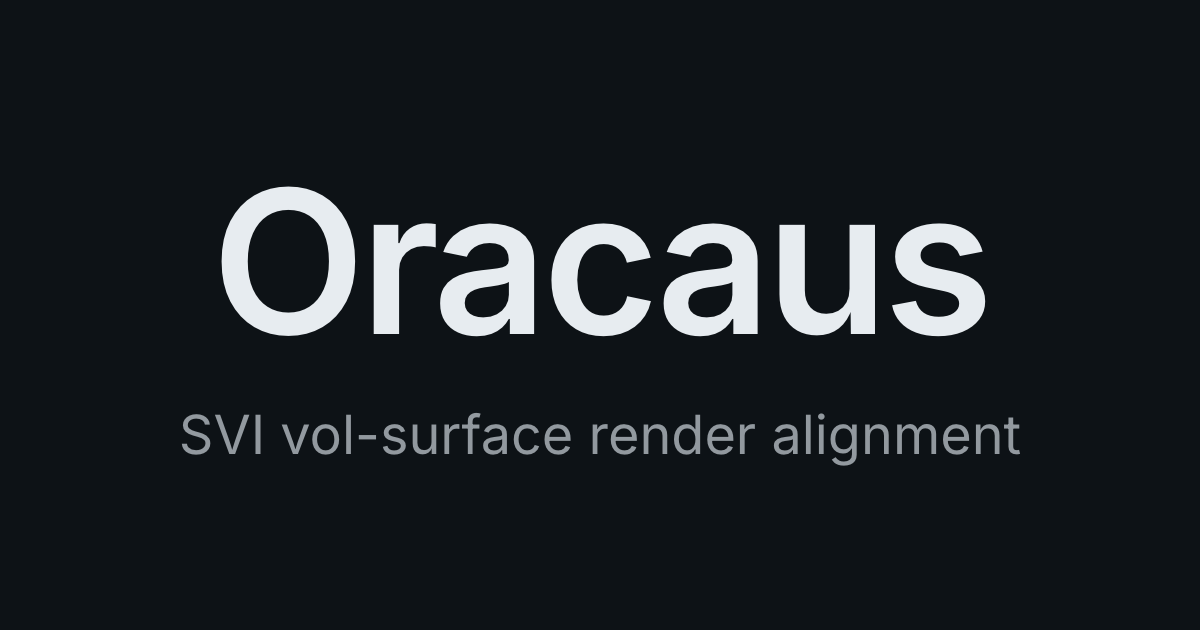
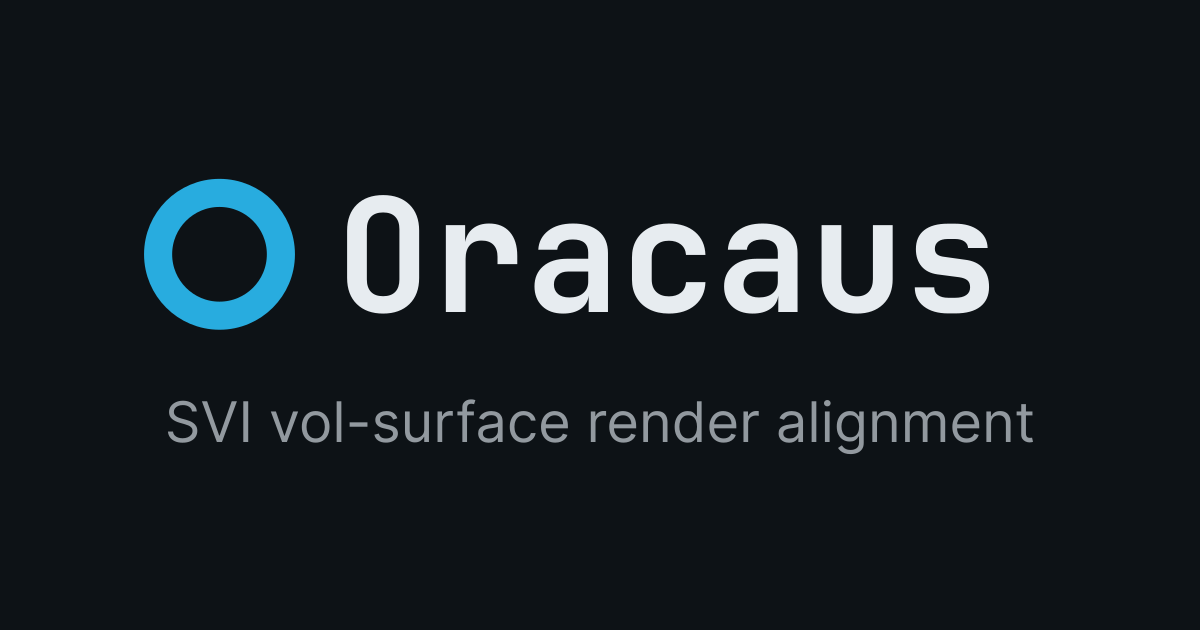
feat(demo,docs): header brand mark, README reframe, comment corrections
- header: ring mark (accent-info) + mono 'Oracaus' wordmark linked to
  https://oracaus.dev (tracked as a link-clicked event); favicon.svg +
  <link rel=icon> in index.html; self-center on the ring so the flex
  lockup aligns to the text baseline. Matches the apex SiteHeader lockup.
- README: reframe the load-bearing section around the four conditions
  under which coherence is a correctness property (canonical upstream
  state, personalised interactive compute, a human acting on the result,
  compute too heavy for coarse gating) + a 'why correctness here' column.
- comments: correct the transform-box reflow claim in Smile.tsx and
  CLAUDE.md. Post 1's A/B showed transform-box stays null even under
  churn; the dominant cost was setAttribute + style recalc.

Changed region(s): [[0.0925, 0.2714, 0.8325, 0.5429], [0.1233, 0.6333, 0.8633, 0.754]]

diff --git a/demo/src/components/Smile.tsx b/demo/src/components/Smile.tsx
@@ -14,8 +14,9 @@
 // (low-opacity rect) marks where the fit is reliable; outside this range
 // SVI extrapolates and can produce arbitrage-violating IVs.
 //
-// The SVG `<g transform>` wrapper keeps tick / curve updates compositor-
-// cheap (no layout invalidation on data change). Tick math via `d3-scale`
+// The inner `<g>` carries the compositor-driven y-axis rescale (Web Animations
+// API); the per-tick data updates themselves still cost style recalc and a
+// little layout, inherent to mutating the SVG nodes. Tick math via `d3-scale`
 // (`linear().nice().ticks(N)`).
 
 import { scaleLinear } from "d3-scale";
@@ -187,10 +188,12 @@ function SmileImpl(props: SmileProps) {
   // animation on the inner chart group with two keyframes: an initial
   // transform that visually maps new positions back to where the same
   // data lived under the OLD range, and identity. The interpolation
-  // runs on the GPU compositor — zero React re-renders, zero
-  // main-thread style/layout/paint per animation frame, and crucially
-  // **no force reflow** (which the prior CSS-transition implementation
-  // required to commit the initial transform before transitioning).
+  // runs on the GPU compositor: zero React re-renders and zero
+  // main-thread style/layout/paint per animation frame. It also skips
+  // the geometry read-back a CSS transition needs to commit the start
+  // state (that read is a forced reflow, but a negligible one here:
+  // transitioning `transform` adds no layout; see the transform-box
+  // note below).
   // The animation appears in DevTools' Animations panel, making the
   // compositor-only behaviour verifiable at a glance.
   //
@@ -199,18 +202,22 @@ function SmileImpl(props: SmileProps) {
   //   ty = MARGIN.top × (1 − sy) + innerH × (oldMax − newMax) / (oldMax − oldMin)
   //
   // Applied around `transform-origin: 0 0` with `transform-box: view-box`
-  // (the SVG default for non-root `<g>`). The origin is at the SVG
-  // view-box's top-left, NOT the inner group's bounding box — view-box
-  // is fixed across content changes, fill-box would force the browser
-  // to recompute the element's bounding box whenever its content
-  // changes (200 circles × 2 panels per 5 Hz tick) which triggered
-  // unattributed document-wide reflows in earlier traces. The
+  // (the SVG default for non-root `<g>`). view-box is load-bearing for
+  // CORRECTNESS, not performance: it pins origin 0 0 to the SVG view-box's
+  // fixed top-left, which is what the ty/sy math above is derived against.
+  // Under fill-box, origin 0 0 would track the inner group's own bounding
+  // box corner, which moves with the content, and the rescale would render
+  // wrong. (We first assumed fill-box would also re-resolve that bounding
+  // box per redraw and cost layout; a controlled A/B, fill-box vs view-box
+  // including a deliberately churning bbox, showed no measurable layout or
+  // style-recalc difference. So the choice is correctness, not cost.) The
   // `MARGIN.top × (1 − sy)` term in ty compensates for the fact that
   // the chart content is offset by MARGIN.top in view-box coords via
   // the parent `<g transform="translate(...)">`.
   //
-  // Replaces the previous `useAnimatedRange` rAF approach which cost
-  // ~50 ms of main-thread work over each 300 ms transition. Reduced-
+  // Replaces the previous `useAnimatedRange` rAF approach, which
+  // re-rendered the chart on every frame of the transition (measured at
+  // roughly 2.7x the compositor handoff's main-thread cost). Reduced-
   // motion users get an instant snap (duration 0) — animation is a
   // visual aid, not load-bearing for comprehension.
   //
@@ -330,16 +337,14 @@ function SmileImpl(props: SmileProps) {
             clipPath={`url(#${clipId})`}
             style={{
               // Explicit `view-box` (the SVG default for non-root `<g>`)
-              // pivots `transform-origin: 0 0` at the SVG view-box's
-              // own top-left, NOT at the inner group's bounding box.
-              // Using `fill-box` here required the browser to recompute
-              // this element's bounding box every time its inner content
-              // changed (200 circles + path `d` per 5 Hz tick), which
-              // triggered the document-wide unattributed forced reflow
-              // visible in the Performance Insights trace. View-box has
-              // a fixed origin per render, so transform reference is
-              // stable across content updates. The MARGIN.top offset
-              // is baked into the WAAPI transform's `ty` keyframe in
+              // pivots `transform-origin: 0 0` at the SVG view-box's own
+              // top-left, NOT at the inner group's bounding box. This is a
+              // correctness requirement for the ty/sy math, not a perf
+              // optimisation: under `fill-box` the origin would track the
+              // group's moving bbox corner and the rescale would render
+              // wrong. (We A/B'd fill-box vs view-box, including a churning
+              // bbox; no measurable layout or style-recalc difference.) The
+              // MARGIN.top offset is baked into the WAAPI `ty` keyframe in
               // the useLayoutEffect above.
               transformBox: "view-box",
               transformOrigin: "0 0",

diff --git a/demo/src/App.tsx b/demo/src/App.tsx
@@ -628,9 +628,29 @@ export function App() {
           tools — they live here rather than in the toolbar below). */}
       <header className="flex h-9 shrink-0 items-center justify-between border-b border-border px-5">
         <div className="flex items-baseline gap-2.5">
-          <span className="font-sans text-base font-semibold tracking-tight">
+          <a
+            href="https://oracaus.dev"
+            target="_blank"
+            rel="noreferrer"
+            onClick={() => trackEvent("link-clicked", { target: "apex" })}
+            className="focus-ring inline-flex items-baseline gap-2 rounded-sm font-mono text-base font-semibold tracking-tight"
+          >
+            <svg
+              viewBox="0 0 18 18"
+              aria-hidden="true"
+              className="h-4 w-4 shrink-0 self-center"
+            >
+              <circle
+                cx="9"
+                cy="9"
+                r="7"
+                fill="none"
+                strokeWidth="3.2"
+                className="stroke-accent-info"
+              />
+            </svg>
             Oracaus
-          </span>
+          </a>
           <span className="whitespace-nowrap font-sans text-[11px] text-fg-muted">
             SVI vol-surface render alignment in React
           </span>

diff --git a/demo/index.html b/demo/index.html
@@ -28,6 +28,7 @@
     content="A React hook for async derivation against streaming inputs. Live demo: SVI vol-surface fitting under a streaming option chain, naive vs. oracaus side-by-side." />
   <meta name="twitter:image" content="https://demo.oracaus.dev/og-image.png" />
 
+  <link rel="icon" href="/favicon.svg" />
   <link rel="preconnect" href="https://fonts.googleapis.com" />
   <link rel="preconnect" href="https://fonts.gstatic.com" crossorigin />
   <link rel="stylesheet"

diff --git a/README.md b/README.md
@@ -89,20 +89,23 @@ Trading UIs are the most demanding instance of this shape; the same failure surf
 
 The library is **a no-op when compute time stays inside the input interval** — the worker is idle between events, the queue can't accumulate, and naive composition would render coherently anyway. That's correct behaviour, not a bug; the library doesn't add latency to fast computes.
 
-It becomes load-bearing when async compute exceeds the inter-snapshot interval. Common patterns where this happens:
+It becomes load-bearing where four conditions hold at once:
 
-| Pattern                                          | Realistic example                                               |
-| ------------------------------------------------ | --------------------------------------------------------------- |
-| Heavy compute per event                          | Multi-slice vol-surface fit + Greeks + no-arb checks ≈ 30–50 ms against an option chain ticking 50–200/sec |
-| Multi-leg aggregate analytics over a streamed ladder | Per-leg book-aware metrics (margin contribution, vol-bucket exposure, correlation impact) aggregated against a streamed price ladder; ≈ 20–40 ms per refresh; vertical tearing along the streamed/derived split |
-| Mixed streaming + intent feeding heavy compute   | Streaming chain at 50 Hz + slider drag on expiry-count or scenario parameter; both feed a 30–100 ms compute; the architectural shape the two-input-kind dispatch was designed for |
-| Scenario revaluation against ticked positions    | 100 scenarios × per-scenario pricing = 50 ms–1 s against a portfolio ticking at ~50 ms; aggregate staleness against the visible positions |
-| Interactive GPU-accelerated Monte Carlo          | 100k-path P&L surface on consumer GPU at 30–200 ms per dispatch; slider-driven perturbation grid against streaming market data; the two-input-kind dispatch maps onto this directly |
-| Streaming-input ML inference                     | Anomaly scoring on a streaming sensor feed; classification over a sliding feature window; small models, 20–200 ms forward pass |
-| Interactive client-side filtering + aggregation  | Ad-hoc re-compute over a 60-second filtered span buffer (APM-class tool); 40–80 ms per refresh on heavy filter changes |
-| Slow client                                      | Same code; 1 ms on developer M-series Mac → 50 ms on user budget Android; crosses the inter-snapshot interval threshold only on the user's device |
+1. **Canonical streaming state lives upstream** — a market-data feed, an option chain, a ticking position book the middle tier serves to every consumer.
+2. **The compute is personalised and interactive** — a per-user fit, scenario set, or structure that can't sit server-side at per-user scale without forcing the middle tier to compute N views per tick.
+3. **A human reads the result and acts on it** — quotes, hedges, adjusts skew, sizes a structure, sets a limit — fast enough and with enough at stake that a frame composing output against inputs that have already moved is a *costly error*, not a cosmetic flicker.
+4. **The compute is heavy enough that coarse gating can't save you** — throttling inputs to a slower cadence shrinks the collision window but doesn't close it once the compute itself exceeds the gating interval.
 
-The threshold isn't fixed at 16 ms — the React frame budget is single-digit ms in practice (browser + scheduler take their share of the 16 ms / 8 ms frame interval), and the library's domain is async compute past the **inter-snapshot interval** (≈ 20 ms at 50 Hz inputs; ≈ 10 ms at 100 Hz). The boundary is empirical and shifts with cadence, fan-out, and scale.
+Trading and risk surfaces are the wedge: the most demanding instance of this shape, and where the proof cases live. The pattern generalises to any real-time interface that meets all four conditions — but where it doesn't (compute the middle tier could do cheaply; a frame only ever glanced at, never acted on; coarse gating that's good enough), coherence is a convenience, not a correctness property, and you don't need this.
+
+| Pattern | Realistic example | Why coherence is correctness here |
+| --- | --- | --- |
+| Vol-surface fit + Greeks (market-maker surface) | Multi-slice raw-SVI fit + Greeks + no-arb ≈ 30–50 ms against an option chain ticking 50–200/sec | The trader adjusts skew, widens, or pulls off the displayed surface; one fitted to a chain that has already moved drives a mis-judged intervention — this is the demo |
+| Scenario revaluation against ticked positions | 100 custom scenarios × per-scenario pricing = 50 ms–1 s against a portfolio ticking at ~50 ms | The risk manager hedges and sets limits off the stress aggregate; the compute exceeds any gating interval, so coalescing *can't* close the window — only coherent commit can |
+| Interactive GPU Monte Carlo (what-if P&L surface) | 100k-path P&L surface on a consumer GPU at 30–200 ms/dispatch; slider-driven perturbation grid against streaming market data | A surface whose perturbation grid disagrees with the (spot, vol) the run used is a chimera P&L for a tuple that never existed at any instant |
+| Multi-leg aggregate over a streamed ladder | Per-leg book-aware metrics (margin, vol-bucket exposure, correlation) against a streamed price ladder; ≈ 20–40 ms | The structurer prices off the aggregate; vertical tearing along the streamed/derived split misstates the structure's margin at the moment of the decision |
+
+The threshold isn't fixed at 16 ms — the React frame budget is single-digit ms in practice (browser + scheduler take their share of the 16 ms / 8 ms frame interval), and the library's domain is async compute past the **inter-snapshot interval** (≈ 20 ms at 50 Hz inputs; ≈ 10 ms at 100 Hz). The boundary is empirical and device-relative: the same compute that's 1 ms on a developer's M-series Mac can be 50 ms on a user's budget Android, crossing the threshold only on the slower device. It shifts with cadence, fan-out, and scale.
 
 The [demo](https://demo.oracaus.dev) is the easiest way to feel this. Two selectors: per-tick compute (~15 ms → ~92 ms p99 across 12 → 80 expiries) and inter-snapshot interval (20 ms → 2 ms across 50 → 500 Hz). Naive tears when compute exceeds interval — steady at defaults (~58 ms vs 20 ms), dramatic at the upper corner (~92 ms vs 2 ms).
 

diff --git a/CLAUDE.md b/CLAUDE.md
@@ -319,7 +319,7 @@ Hand-rolled SVG (`demo/src/components/Smile.tsx`). `d3-scale` (~5 KB gz) for tic
 
 1. **Anchor baseline** (`App.tsx:computeSmileYRange(T, xRange)`). Derives IV range from feed's anchor parameters at the displayed maturity. Recomputed only on `displayMaturityT` change. Anchor params mirrored from `feed.ts` rather than imported.
 2. **Sticky range with expand-only hysteresis** (`App.tsx:stickyYRange`). Expands outward when observed IV envelope overflows; never shrinks within a maturity selection. Reset to anchor on maturity change.
-3. **Compositor-only y-axis transition via Web Animations API** (`Smile.tsx` `useLayoutEffect` on yRange change). Re-renders content at the NEW range immediately, then runs WAAPI animation on the inner chart group via `element.animate(...)`. Interpolation runs on the GPU compositor — zero React re-renders, zero main-thread style/layout/paint per frame, no forced reflow. `transform-origin: 0 0` with `transform-box: view-box` (load-bearing for steady-state perf — `fill-box` would recompute bounding box on every content change, triggering document-wide reflows). Animation handle stored in ref so a new yRange change can cancel an in-flight one. Respects `prefers-reduced-motion: reduce` via `duration: 0`.
+3. **Compositor-only y-axis transition via Web Animations API** (`Smile.tsx` `useLayoutEffect` on yRange change). Re-renders content at the NEW range immediately, then runs WAAPI animation on the inner chart group via `element.animate(...)`. Interpolation runs on the GPU compositor — zero React re-renders, zero main-thread style/layout/paint per animation frame. `transform-origin: 0 0` with `transform-box: view-box` (load-bearing for **correctness**, not perf: it pins origin 0 0 to the fixed SVG viewport, which the ty/sy math assumes; under `fill-box` the origin tracks the group's moving bbox corner and mis-renders the rescale. A controlled A/B incl. a churning bbox showed no layout/style-recalc difference between the two). Animation handle stored in ref so a new yRange change can cancel an in-flight one. Respects `prefers-reduced-motion: reduce` via `duration: 0`.
 4. **ClipPath on the chart interior** (`Smile.tsx:clipId`) confines dots, curve, and hover cursor to the inner chart rect. Unique per-instance id via `useId()`.
 
 ### Deployment
